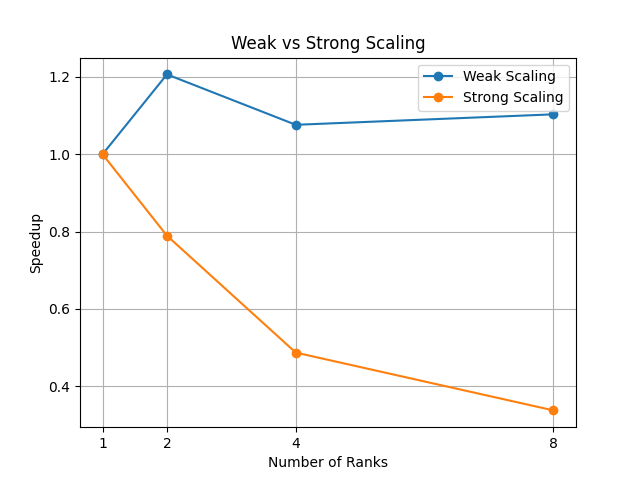
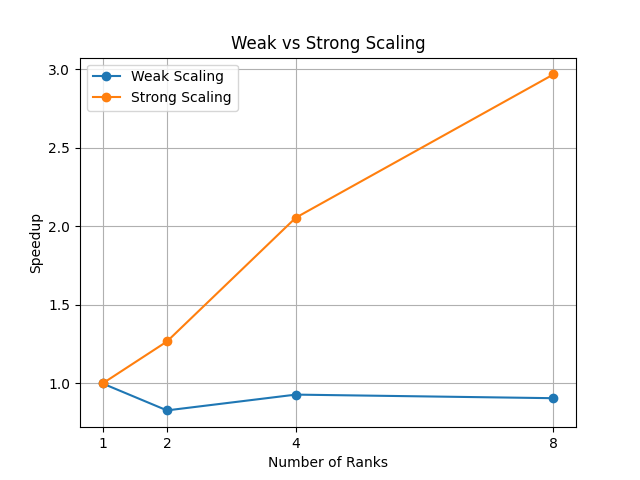
new g

diff --git a/helpers/graph.py b/helpers/graph.py
@@ -20,8 +20,8 @@ strong = [0.922766, 0.728292, 0.449133, 0.311105]
 
 ranks = [1, 2, 4, 8]
 
-speedup_weak = [weak[i] / weak[0] for i in range(len(weak))]
-speedup_strong = [strong[i] / strong[0] for i in range(len(strong))]
+speedup_weak = [weak[0] / weak[i] for i in range(len(weak))]
+speedup_strong = [strong[0] / strong[i] for i in range(len(strong))]
 
 import matplotlib.pyplot as plt
 
